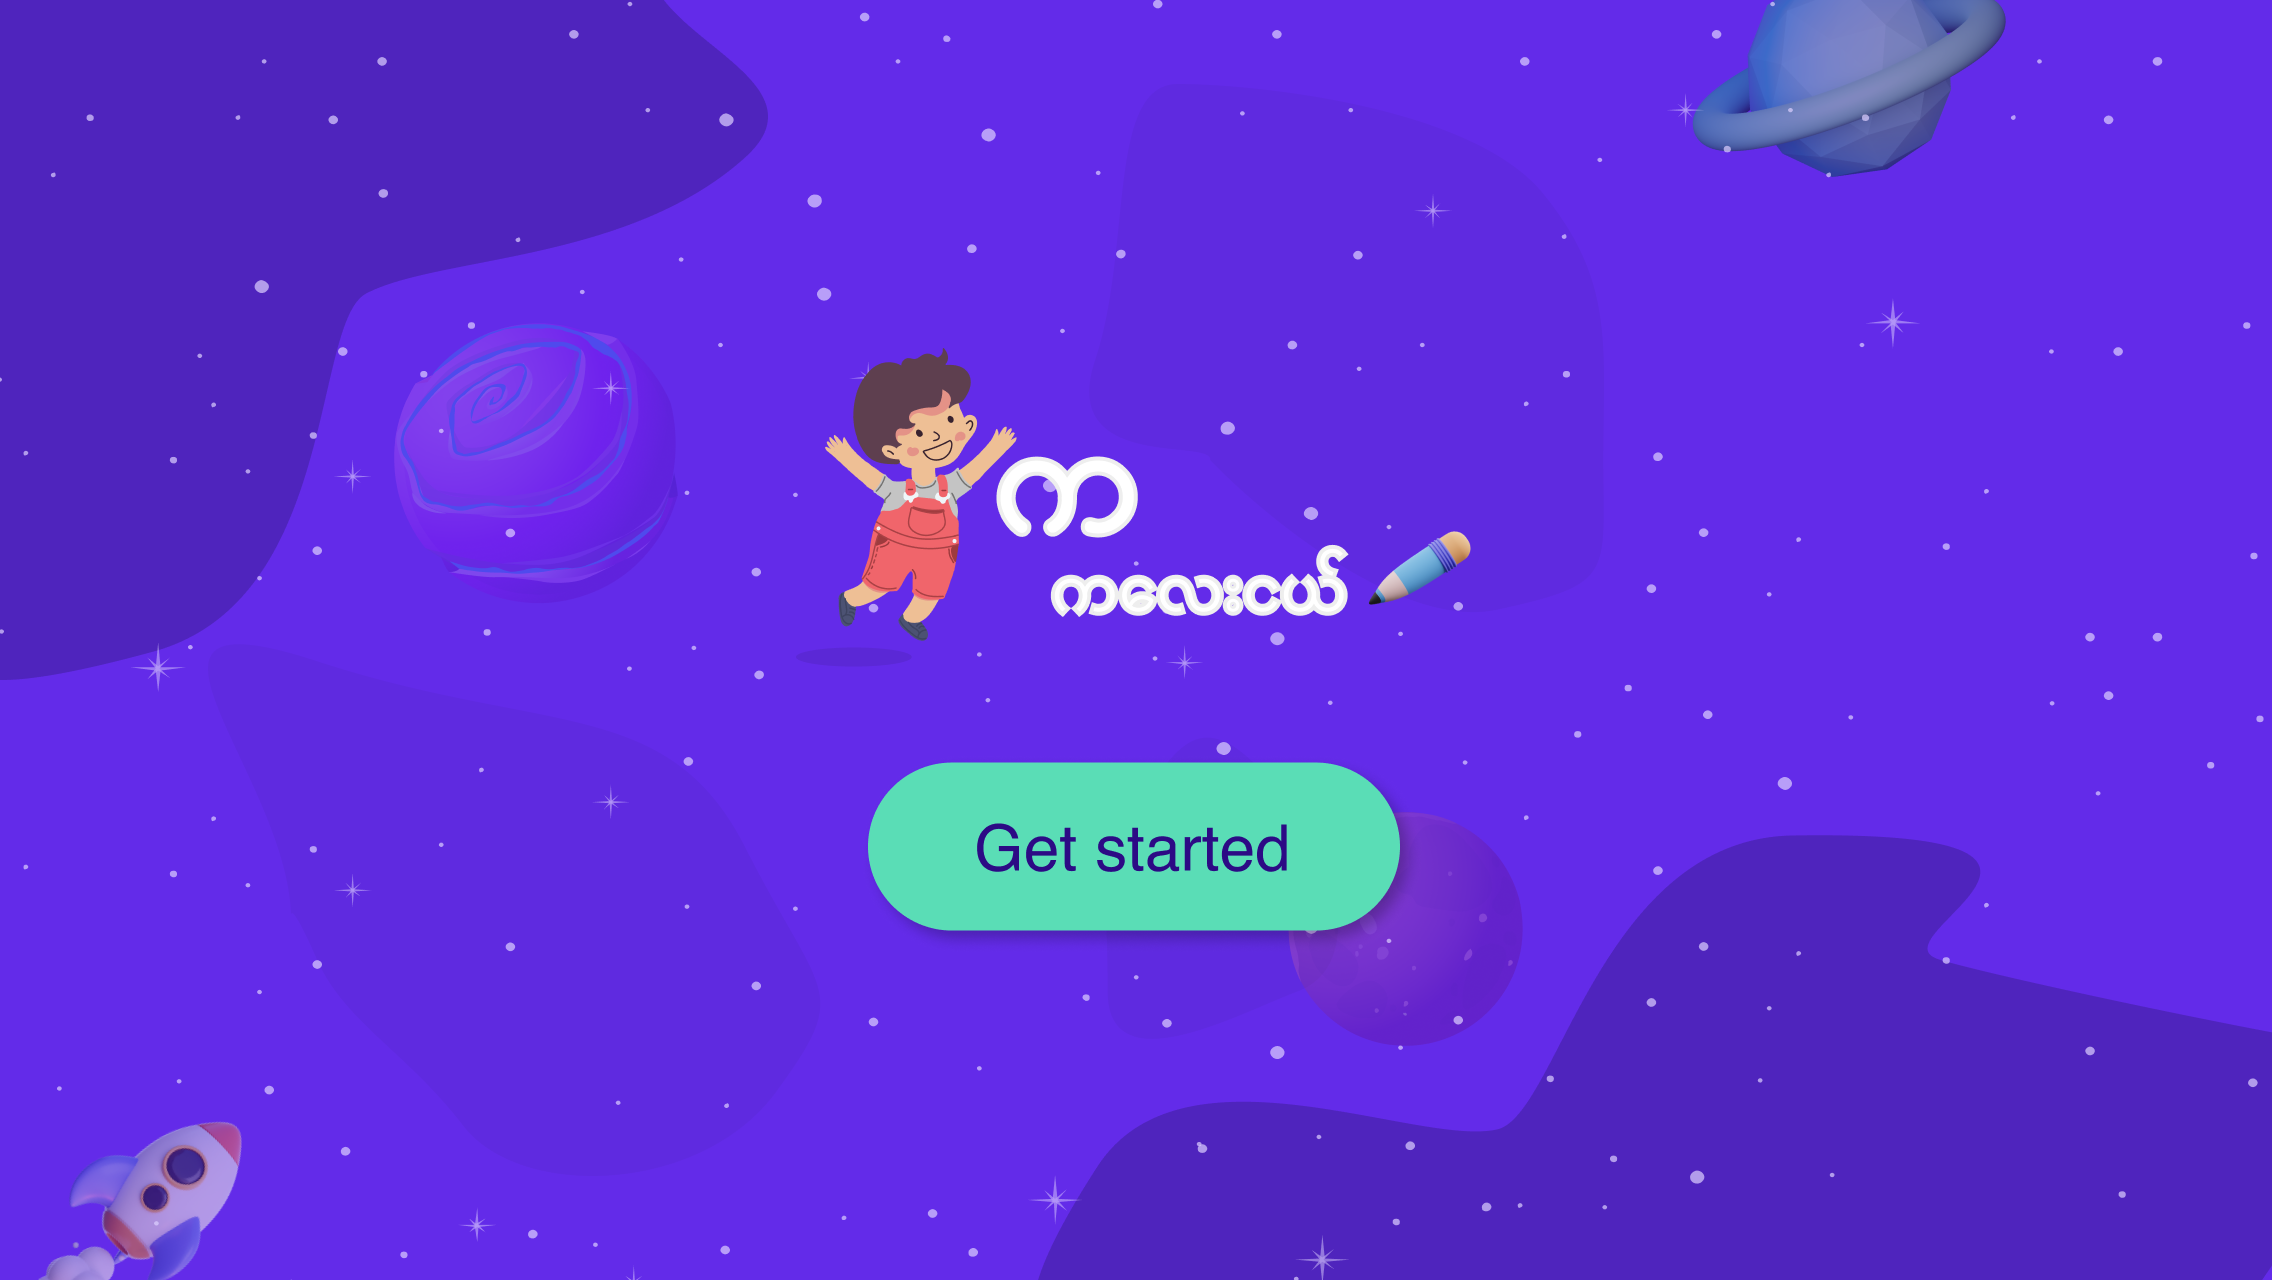
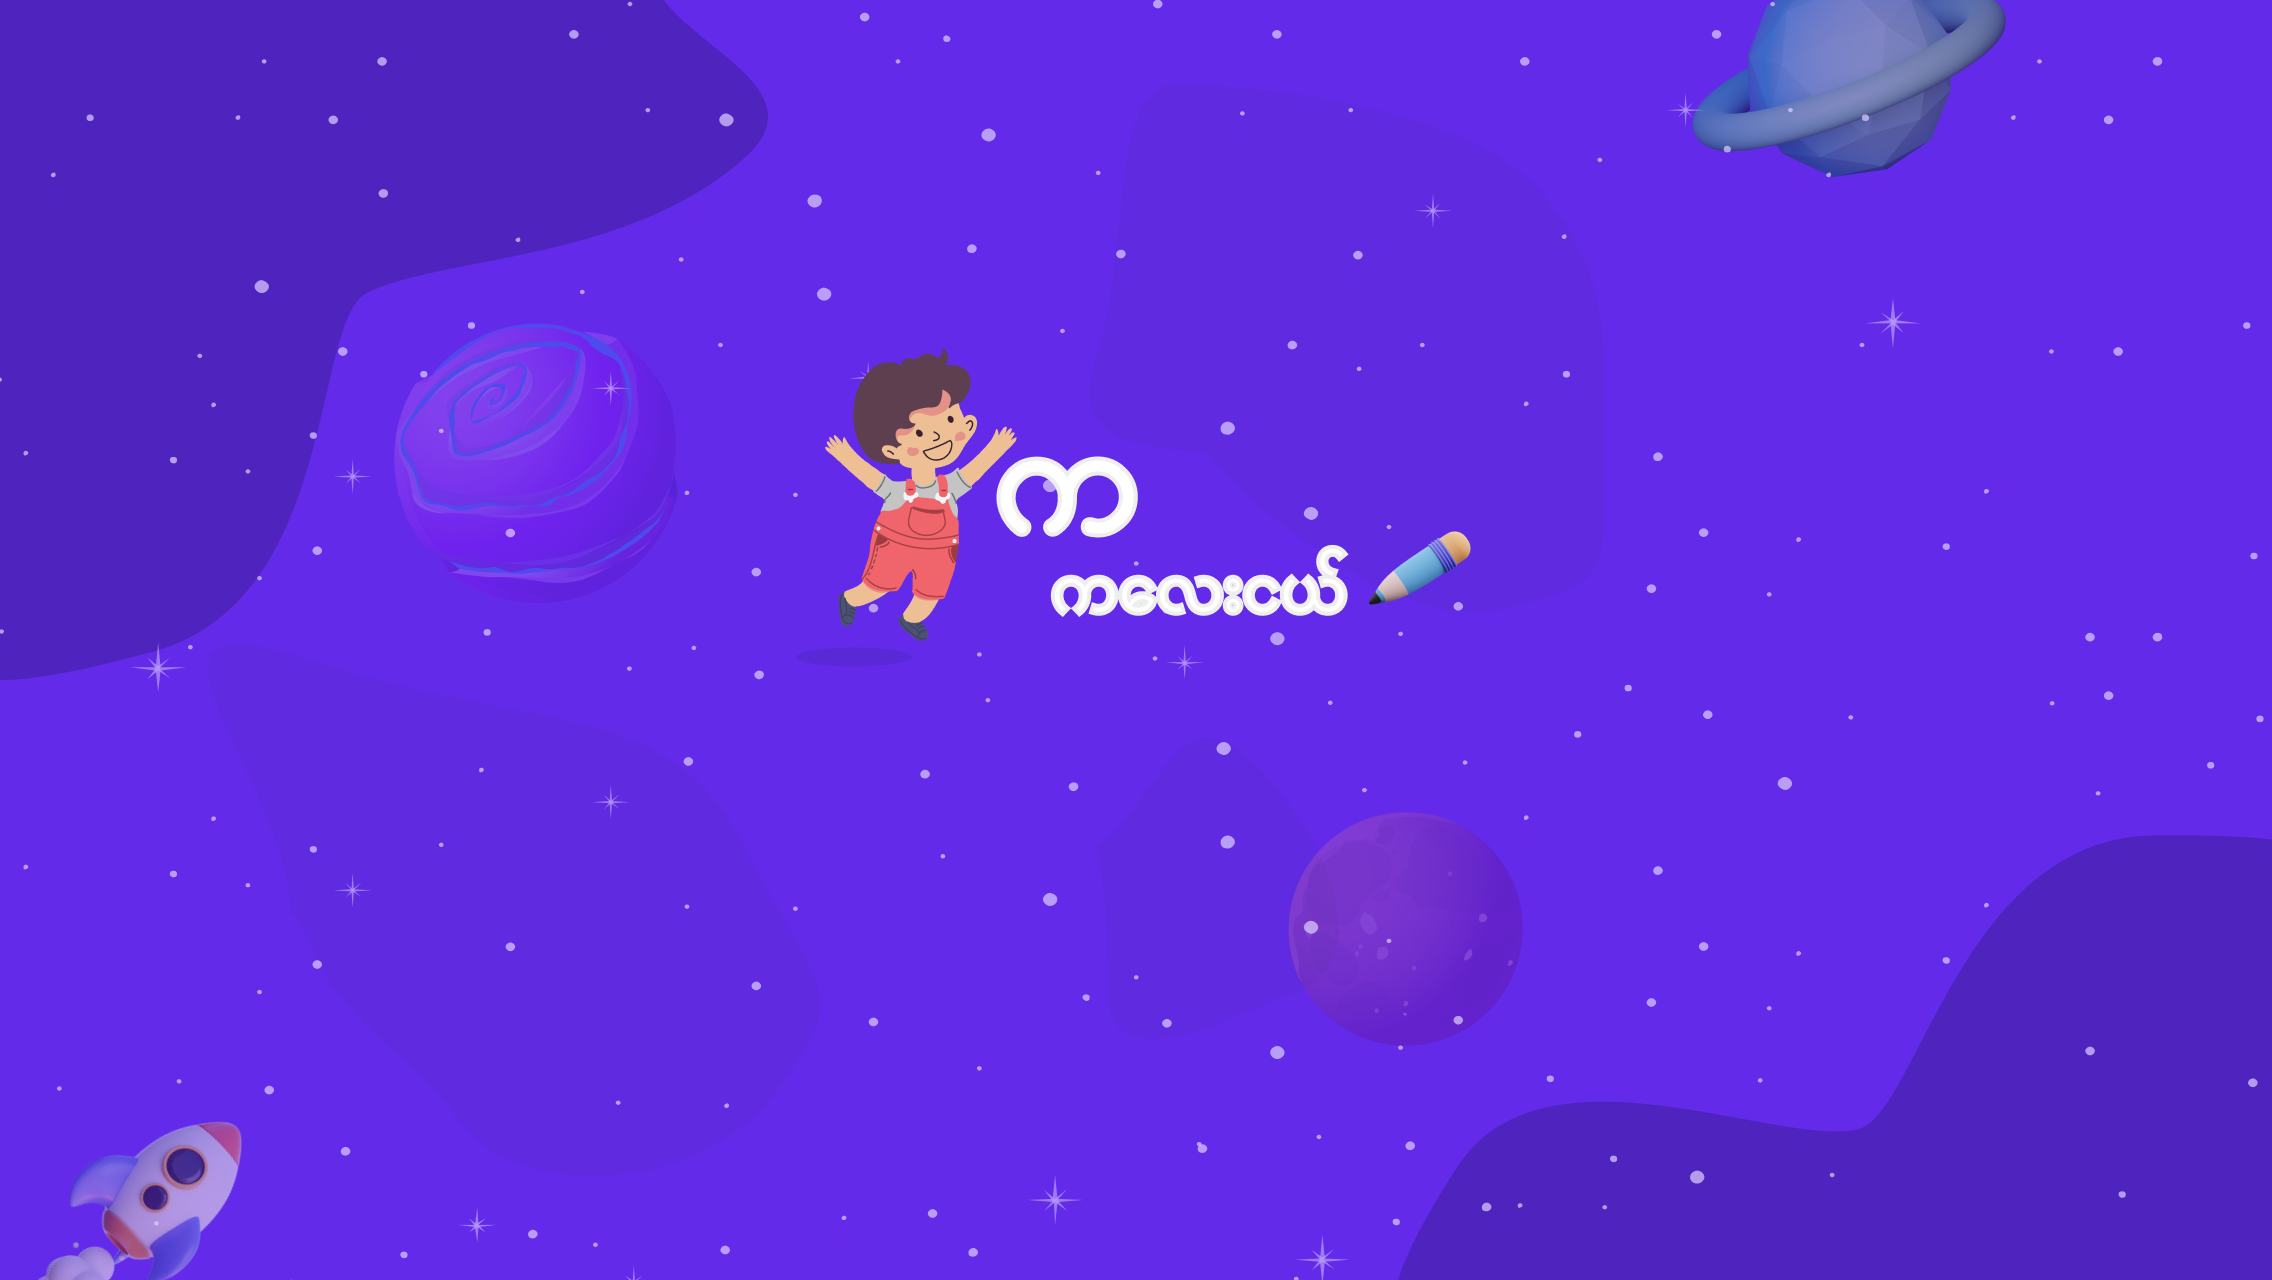
added welcome screen

Changed region(s): [[0.6562, 0.625, 1.0, 0.9062], [0.375, 0.5938, 0.625, 0.75], [0.4375, 0.8438, 0.6562, 1.0]]

diff --git a/public/js/index.js b/public/js/index.js
@@ -5314,11 +5314,13 @@ __webpack_require__.r(__webpack_exports__);
 /* harmony export */   "default": () => (__WEBPACK_DEFAULT_EXPORT__)
 /* harmony export */ });
 /* harmony import */ var react__WEBPACK_IMPORTED_MODULE_0__ = __webpack_require__(/*! react */ "./node_modules/react/index.js");
-/* harmony import */ var _assets_images_welcome_png__WEBPACK_IMPORTED_MODULE_1__ = __webpack_require__(/*! ./assets/images/welcome.png */ "./resources/js/assets/images/welcome.png");
-/* harmony import */ var react_jsx_runtime__WEBPACK_IMPORTED_MODULE_2__ = __webpack_require__(/*! react/jsx-runtime */ "./node_modules/react/jsx-runtime.js");
+/* harmony import */ var _images_app_store_svg__WEBPACK_IMPORTED_MODULE_1__ = __webpack_require__(/*! ../../../../../images/app_store.svg */ "./public/images/app_store.svg");
+/* harmony import */ var _images_play_store_svg__WEBPACK_IMPORTED_MODULE_2__ = __webpack_require__(/*! ../../../../../images/play_store.svg */ "./public/images/play_store.svg");
+/* harmony import */ var react_jsx_runtime__WEBPACK_IMPORTED_MODULE_3__ = __webpack_require__(/*! react/jsx-runtime */ "./node_modules/react/jsx-runtime.js");
 function ownKeys(object, enumerableOnly) { var keys = Object.keys(object); if (Object.getOwnPropertySymbols) { var symbols = Object.getOwnPropertySymbols(object); enumerableOnly && (symbols = symbols.filter(function (sym) { return Object.getOwnPropertyDescriptor(object, sym).enumerable; })), keys.push.apply(keys, symbols); } return keys; }
 function _objectSpread(target) { for (var i = 1; i < arguments.length; i++) { var source = null != arguments[i] ? arguments[i] : {}; i % 2 ? ownKeys(Object(source), !0).forEach(function (key) { _defineProperty(target, key, source[key]); }) : Object.getOwnPropertyDescriptors ? Object.defineProperties(target, Object.getOwnPropertyDescriptors(source)) : ownKeys(Object(source)).forEach(function (key) { Object.defineProperty(target, key, Object.getOwnPropertyDescriptor(source, key)); }); } return target; }
 function _defineProperty(obj, key, value) { if (key in obj) { Object.defineProperty(obj, key, { value: value, enumerable: true, configurable: true, writable: true }); } else { obj[key] = value; } return obj; }
+
 
 
 
@@ -5330,10 +5332,34 @@ function App() {
     backgroundPosition: "center",
     backgroundSize: "cover"
   };
-  return /*#__PURE__*/(0,react_jsx_runtime__WEBPACK_IMPORTED_MODULE_2__.jsx)("div", {
+  return /*#__PURE__*/(0,react_jsx_runtime__WEBPACK_IMPORTED_MODULE_3__.jsx)("div", {
     style: _objectSpread(_objectSpread({}, bgStyles), {}, {
       width: "100vw",
       height: "100vh"
+    }),
+    children: /*#__PURE__*/(0,react_jsx_runtime__WEBPACK_IMPORTED_MODULE_3__.jsxs)("div", {
+      className: "absolute bottom-20 insert-x-1/2",
+      children: [/*#__PURE__*/(0,react_jsx_runtime__WEBPACK_IMPORTED_MODULE_3__.jsx)("p", {
+        className: "text-blue-400 font-bold pb-8 lg:pb-6 text-center md:text-left fade-in",
+        children: "Download our app:"
+      }), /*#__PURE__*/(0,react_jsx_runtime__WEBPACK_IMPORTED_MODULE_3__.jsxs)("div", {
+        className: "flex w-full justify-center md:justify-start pb-24 lg:pb-0 fade-in",
+        children: [/*#__PURE__*/(0,react_jsx_runtime__WEBPACK_IMPORTED_MODULE_3__.jsx)("a", {
+          href: "#",
+          children: /*#__PURE__*/(0,react_jsx_runtime__WEBPACK_IMPORTED_MODULE_3__.jsx)("img", {
+            src: _images_app_store_svg__WEBPACK_IMPORTED_MODULE_1__["default"],
+            alt: "App Store",
+            className: "h-12 pr-4 bounce-top-icons"
+          })
+        }), /*#__PURE__*/(0,react_jsx_runtime__WEBPACK_IMPORTED_MODULE_3__.jsx)("a", {
+          href: "#",
+          children: /*#__PURE__*/(0,react_jsx_runtime__WEBPACK_IMPORTED_MODULE_3__.jsx)("img", {
+            src: _images_play_store_svg__WEBPACK_IMPORTED_MODULE_2__["default"],
+            alt: "Play Store",
+            className: "h-12 bounce-top-icons"
+          })
+        })]
+      })]
     })
   });
 }
@@ -10653,10 +10679,10 @@ defineJQueryPlugin(Toast);
 
 /***/ }),
 
-/***/ "./resources/js/assets/images/welcome.png":
-/*!************************************************!*\
-  !*** ./resources/js/assets/images/welcome.png ***!
-  \************************************************/
+/***/ "./public/images/app_store.svg":
+/*!*************************************!*\
+  !*** ./public/images/app_store.svg ***!
+  \*************************************/
 /***/ ((__unused_webpack_module, __webpack_exports__, __webpack_require__) => {
 
 "use strict";
@@ -10664,7 +10690,22 @@ __webpack_require__.r(__webpack_exports__);
 /* harmony export */ __webpack_require__.d(__webpack_exports__, {
 /* harmony export */   "default": () => (__WEBPACK_DEFAULT_EXPORT__)
 /* harmony export */ });
-/* harmony default export */ const __WEBPACK_DEFAULT_EXPORT__ = ("/images/welcome.png?78720187faa8125565096cb748929444");
+/* harmony default export */ const __WEBPACK_DEFAULT_EXPORT__ = ("/images/app_store.svg?e43df60129791a3526f50daebd6196e3");
+
+/***/ }),
+
+/***/ "./public/images/play_store.svg":
+/*!**************************************!*\
+  !*** ./public/images/play_store.svg ***!
+  \**************************************/
+/***/ ((__unused_webpack_module, __webpack_exports__, __webpack_require__) => {
+
+"use strict";
+__webpack_require__.r(__webpack_exports__);
+/* harmony export */ __webpack_require__.d(__webpack_exports__, {
+/* harmony export */   "default": () => (__WEBPACK_DEFAULT_EXPORT__)
+/* harmony export */ });
+/* harmony default export */ const __WEBPACK_DEFAULT_EXPORT__ = ("/images/play_store.svg?dbeb898faff928544f431f9a889b9c2b");
 
 /***/ }),
 

diff --git a/resources/js/App.js b/resources/js/App.js
@@ -1,6 +1,6 @@
-import React from 'react';
-import { Route } from "react-router-dom";
-import WelcomeImg from './assets/images/welcome.png'
+import React from "react";
+import AppStore from "/images/app_store.svg";
+import PlayStore from "/images/play_store.svg";
 
 function App() {
     const bgStyles = {
@@ -8,10 +8,31 @@ function App() {
         backgroundRepeat: "no-repeat",
         backgroundPosition: "center",
         backgroundSize: "cover",
-    }
+    };
     return (
         <div style={{ ...bgStyles, width: "100vw", height: "100vh" }}>
+            <div className="wabsolute bottom-20 insert-x-1/2">
+                <p className="text-blue-400 font-bold pb-8 lg:pb-6 text-center md:text-left fade-in">
+                    Download our app:
+                </p>
 
+                <div className="flex w-full justify-center md:justify-start pb-24 lg:pb-0 fade-in">
+                    <a href="#">
+                        <img
+                            src={AppStore}
+                            alt="App Store"
+                            className="h-12 pr-4 bounce-top-icons"
+                        />
+                    </a>
+                    <a href="#">
+                        <img
+                            src={PlayStore}
+                            alt="Play Store"
+                            className="h-12 bounce-top-icons"
+                        />
+                    </a>
+                </div>
+            </div>
         </div>
     );
 }
